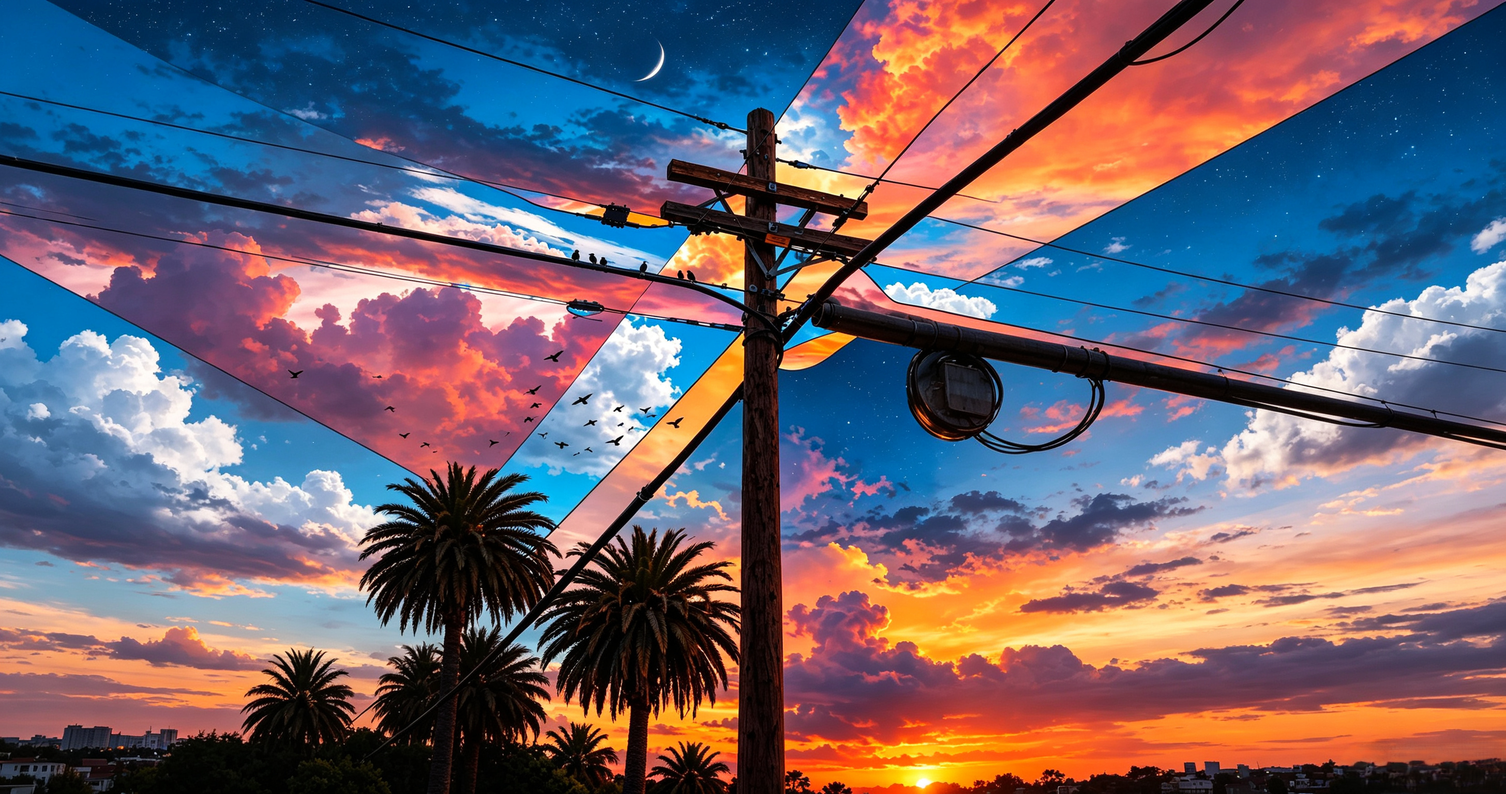
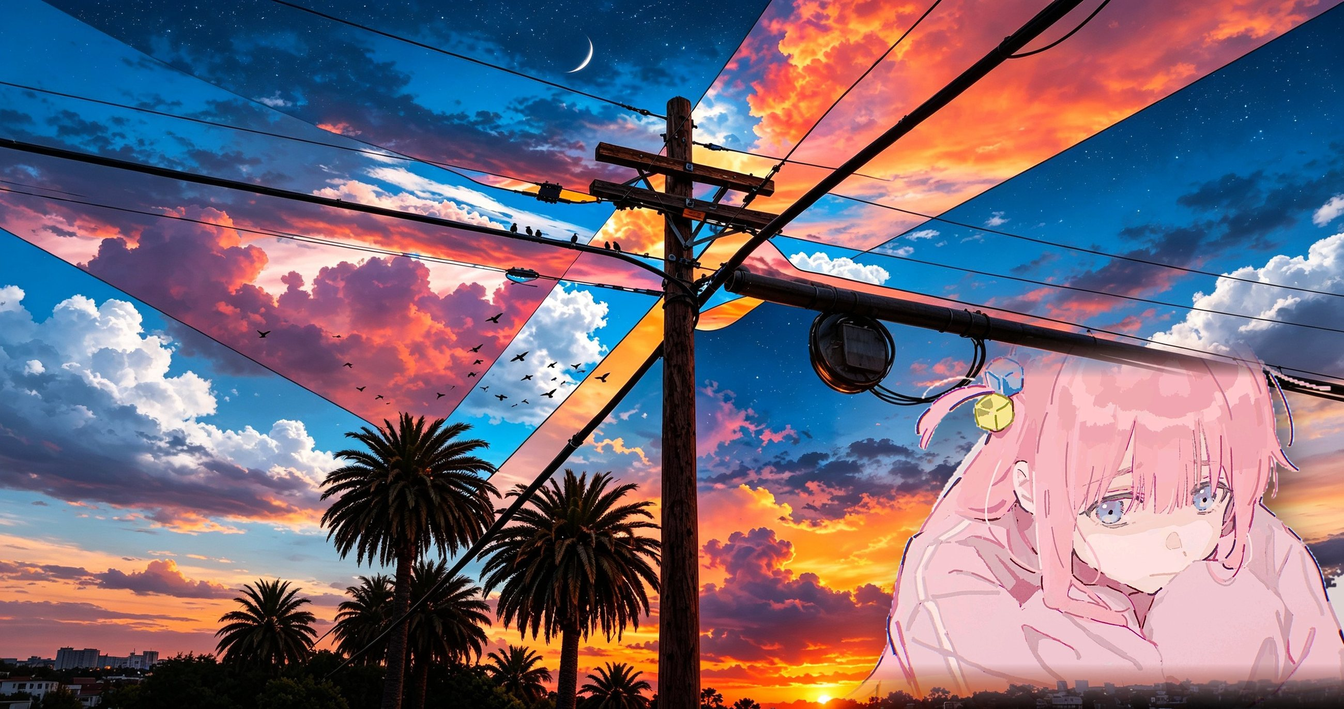
feat: 背景图换成「夕阳风景 + 波奇」合成图，遮罩调整为 0.45/0.75

Changed region(s): [[0.6231, 0.4902, 1.0, 1.0]]

diff --git a/src/styles/main.css b/src/styles/main.css
@@ -156,9 +156,9 @@ body::after {
     position: fixed;
     inset: 0;
     z-index: -1;
-    background-color: rgba(255, 255, 255, 0.82);
+    background-color: rgba(255, 255, 255, 0.45);
     pointer-events: none;
 }
 html.dark body::after {
-    background-color: rgba(0, 0, 0, 0.7);
+    background-color: rgba(0, 0, 0, 0.75);
 }
